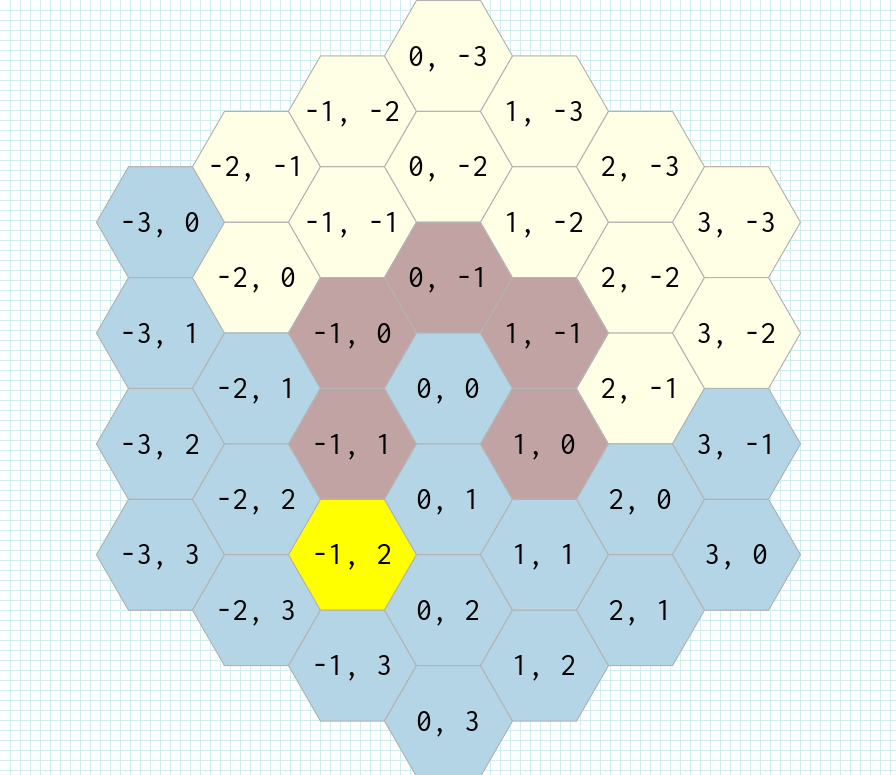
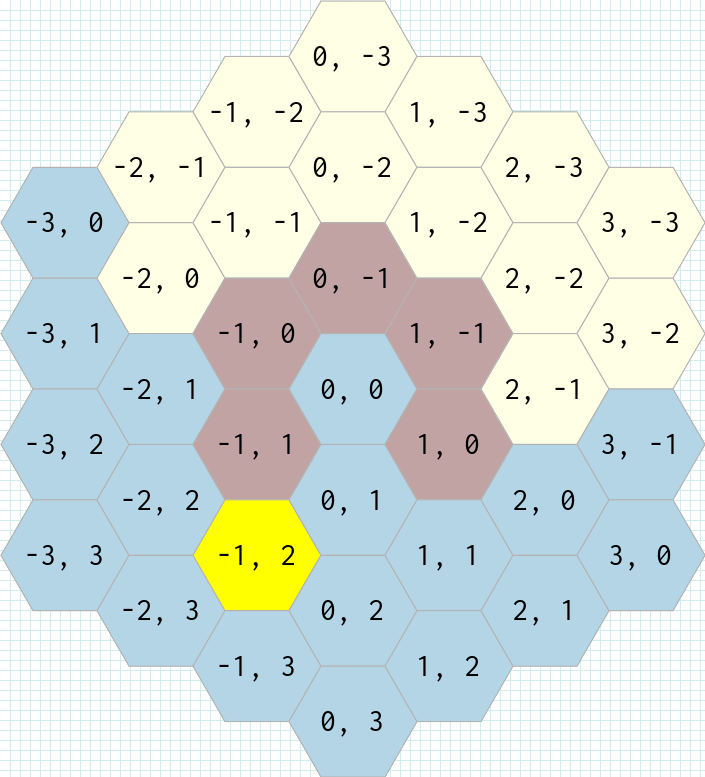
fix image draw

diff --git a/lib/rhex/canvas_markups/auto_canvas_markup.rb b/lib/rhex/canvas_markups/auto_canvas_markup.rb
@@ -6,25 +6,28 @@ module Rhex
       extend Forwardable
 
       Center = Struct.new(:x, :y, keyword_init: true)
+      DEG_TO_RAD = Math::PI / 180.0
+      STROKE_WIDTH = 1
+      private_constant :Center, :DEG_TO_RAD, :STROKE_WIDTH
 
       def initialize(grid)
         @grid = Rhex::Decorators::GridWithMarkup.new(grid)
       end
 
       def width
-        (q_max - q_min + 1) * central_hex.width
+        @width ||= span_with_stroke(x_max - x_min)
       end
       alias_method :cols, :width
 
       def height
-        (r_max - r_min + 1) * central_hex.height
+        @height ||= span_with_stroke(y_max - y_min)
       end
       alias_method :rows, :height
 
       def center
         @center ||= Center.new(
-          x: (cols / 2) - central_hex.coordinates.x,
-          y: (rows / 2) - central_hex.coordinates.y
+          x: (cols / 2.0) - bounding_center.x,
+          y: (rows / 2.0) - bounding_center.y
         ).freeze
       end
 
@@ -33,13 +36,63 @@ module Rhex
       attr_reader :grid
 
       def_delegators :grid, :hex_size
-      def_delegators :grid, :q_max
-      def_delegators :grid, :q_min
-      def_delegators :grid, :r_max
-      def_delegators :grid, :r_min
 
-      def central_hex
-        @central_hex ||= grid.decorate_hex(grid.central_hex)
+      def bounding_center
+        @bounding_center ||= Center.new(
+          x: (x_min_with_stroke + x_max_with_stroke) / 2.0,
+          y: (y_min_with_stroke + y_max_with_stroke) / 2.0
+        )
+      end
+
+      def x_min
+        @x_min ||= vertices.map(&:first).min
+      end
+
+      def x_max
+        @x_max ||= vertices.map(&:first).max
+      end
+
+      def y_min
+        @y_min ||= vertices.map(&:last).min
+      end
+
+      def y_max
+        @y_max ||= vertices.map(&:last).max
+      end
+
+      def vertices
+        @vertices ||= grid.to_a.flat_map { polygon_vertices(_1) }
+      end
+
+      def polygon_vertices(hex)
+        hex.class::ANGLES.map do |deg|
+          rad = deg * DEG_TO_RAD
+
+          [
+            hex.coordinates.x + (hex.size * Math.cos(rad)),
+            hex.coordinates.y + (hex.size * Math.sin(rad)),
+          ]
+        end
+      end
+
+      def span_with_stroke(span)
+        (span + STROKE_WIDTH).ceil
+      end
+
+      def x_min_with_stroke
+        x_min - STROKE_WIDTH / 2.0
+      end
+
+      def x_max_with_stroke
+        x_max + STROKE_WIDTH / 2.0
+      end
+
+      def y_min_with_stroke
+        y_min - STROKE_WIDTH / 2.0
+      end
+
+      def y_max_with_stroke
+        y_max + STROKE_WIDTH / 2.0
       end
     end
   end

diff --git a/spec/lib/rhex/canvas_markups/auto_canvas_markup_spec.rb b/spec/lib/rhex/canvas_markups/auto_canvas_markup_spec.rb
@@ -9,8 +9,8 @@ RSpec.describe(Rhex::CanvasMarkups::AutoCanvasMarkup) do
 
   describe "#width and #height" do
     it "scale with the number of columns and rows" do
-      expect(markup.width).to(eq(8.0))
-      expect(markup.height).to(be_within(1e-6).of(12.0 / Math.sqrt(3)))
+      expect(markup.width).to(eq(8))
+      expect(markup.height).to(eq(10))
       expect(markup.cols).to(eq(markup.width))
       expect(markup.rows).to(eq(markup.height))
     end
@@ -21,7 +21,7 @@ RSpec.describe(Rhex::CanvasMarkups::AutoCanvasMarkup) do
       center = markup.center
 
       expect(center.x).to(eq(2.5))
-      expect(center.y).to(be_within(1e-6).of((6.0 / Math.sqrt(3)) - (4.5 / Math.sqrt(3))))
+      expect(center.y).to(be_within(1e-6).of(2.401923788646684))
       expect(markup.center).to(be(center))
     end
   end
